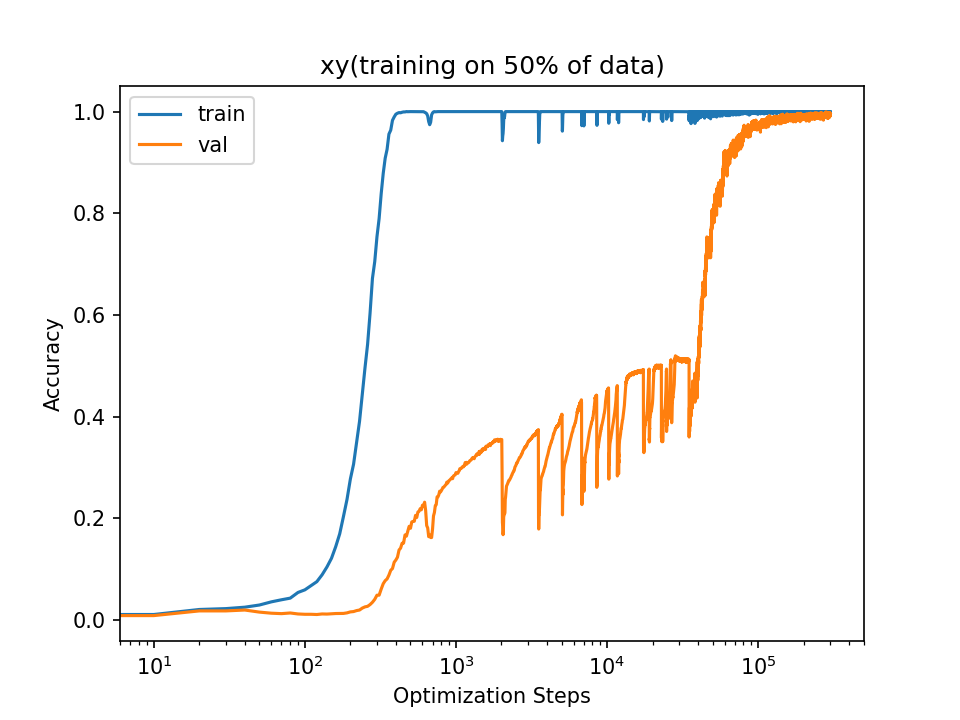
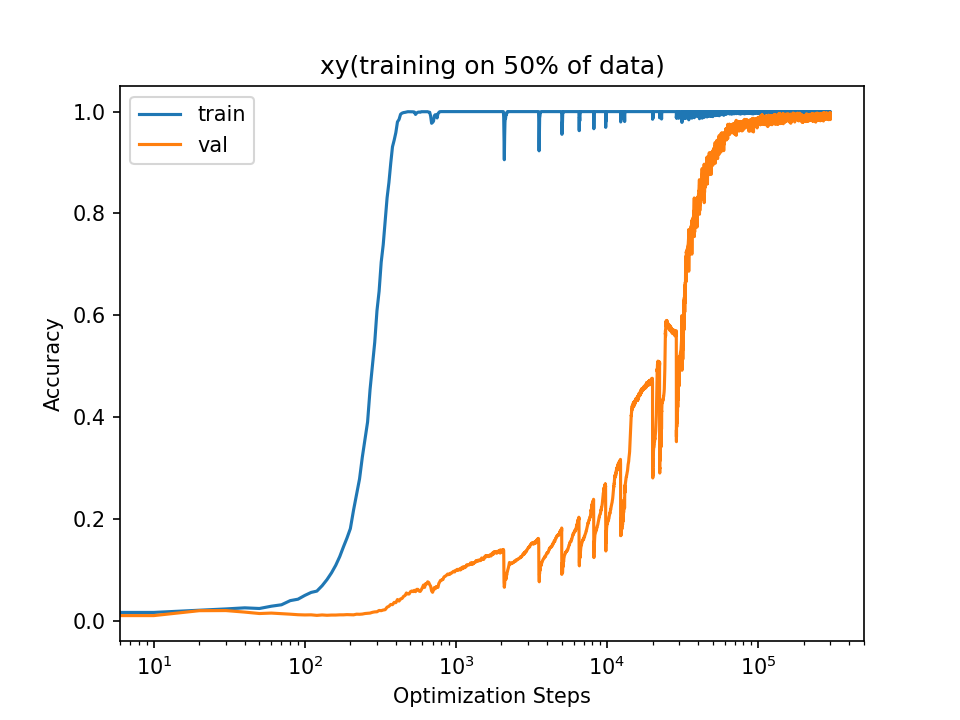
r2 plot

diff --git a/train.py b/train.py
@@ -38,10 +38,11 @@ def main(args):
     torch.manual_seed(0)
     ops={**operations.monomial, **operations.composite, **operations.other}
     score={}
+    representations={}
+    ops1={'x', 'y', 'x^2', 'x+y', 'xy'}
     for key, value in ops.items():
         score[key]=[]
         representations[key]=torch.load(f'representations/{key}/final.pt')
-        representationsNew[key]=torch.load(f'representationsNew/{key}/final.pt')
 
     if not os.path.exists(f'weights/{args.operation}'):
         os.makedirs(f'weights/{args.operation}')
@@ -66,9 +67,9 @@ def main(args):
 
     # "We train on the binary operation of division mod 97 with 50% of the data
     # in the training set."
-    data = generate_data(args.p, eq_token, op_token, ops[args.operation])
-    train_idx, valid_idx = torch.randperm(data.shape[1]).split(data.shape[1] // 2)
-    train_data, valid_data = data[:, train_idx], data[:, valid_idx]
+    alldata = generate_data(args.p, eq_token, op_token, ops[args.operation])
+    train_idx, valid_idx = torch.randperm(alldata.shape[1]).split(alldata.shape[1] // 2)
+    train_data, valid_data = alldata[:, train_idx], alldata[:, valid_idx]
 
     # For most experiments we used AdamW optimizer with learning rate 10−3,
     # weight decay 1, β1 = 0.9, β2 = 0.98
@@ -131,12 +132,13 @@ def main(args):
                 #print("Test ", total_acc)
                 val_acc.append(total_acc / valid_data.shape[-1])
                 val_loss.append(total_loss / valid_data.shape[-1])
-                for key, value in ops.items():
-                    lm = linear_model.LinearRegression()
-                    x=representations[key].cpu().numpy()
-                    y=model.extract_representation(input[:-1])[-1].cpu().numpy()
-                    lm.fit(x, y)
-                    score[key].append(r2_score(lm.predict(x), y, multioutput='variance_weighted'))
+                with torch.no_grad():
+                    for key, value in ops.items():
+                        lm = linear_model.LinearRegression()
+                        x=representations[key].cpu().numpy()
+                        y=model.extract_representation(alldata.to(device)[:-1])[-1].cpu().numpy()
+                        lm.fit(x, y)
+                        score[key].append(r2_score(lm.predict(x), y, multioutput='variance_weighted'))
 
         if (e + 1) % 100 == 0:
             steps = torch.arange(len(train_acc)).numpy() * steps_per_epoch
@@ -183,7 +185,7 @@ def main(args):
 if __name__ == "__main__":
     parser = ArgumentParser()
     parser.add_argument("--p", type=int, default=97)
-    parser.add_argument("--budget", type=int, default=3e6)
+    parser.add_argument("--budget", type=int, default=3e5)
     parser.add_argument("--batch_size", type=int, default=512)
     parser.add_argument("--lr", type=float, default=1e-3)
     parser.add_argument("--beta1", type=float, default=0.9)

diff --git a/regression.py b/regression.py
@@ -12,11 +12,12 @@ with torch.no_grad():
     representationsNew={}
     for key, value in {**other, **monomial, **composite}.items():
         representations[key]=torch.load(f'representations/{key}/final.pt')
-        representationsNew[key]=torch.load(f'representationsNew/{key}/final.pt')
+        if key=='x^2': 
+            representationsNew[key]=torch.load(f'representations/{key}/random.pt')
     lm = linear_model.LinearRegression()
-    x=representations['x^2'].cpu().numpy()
-    x_n=representationsNew['x'].cpu().numpy()
-    xy=representations['xy'].cpu().numpy()
+    x=representations['x+y'].cpu().numpy()
+    x_n=representationsNew['x^2'].cpu().numpy()
+    #xy=representations['xy'].cpu().numpy()
     x2=representations['x^2'].cpu().numpy()
     print(x.shape)
     lm.fit(x_n, x)
